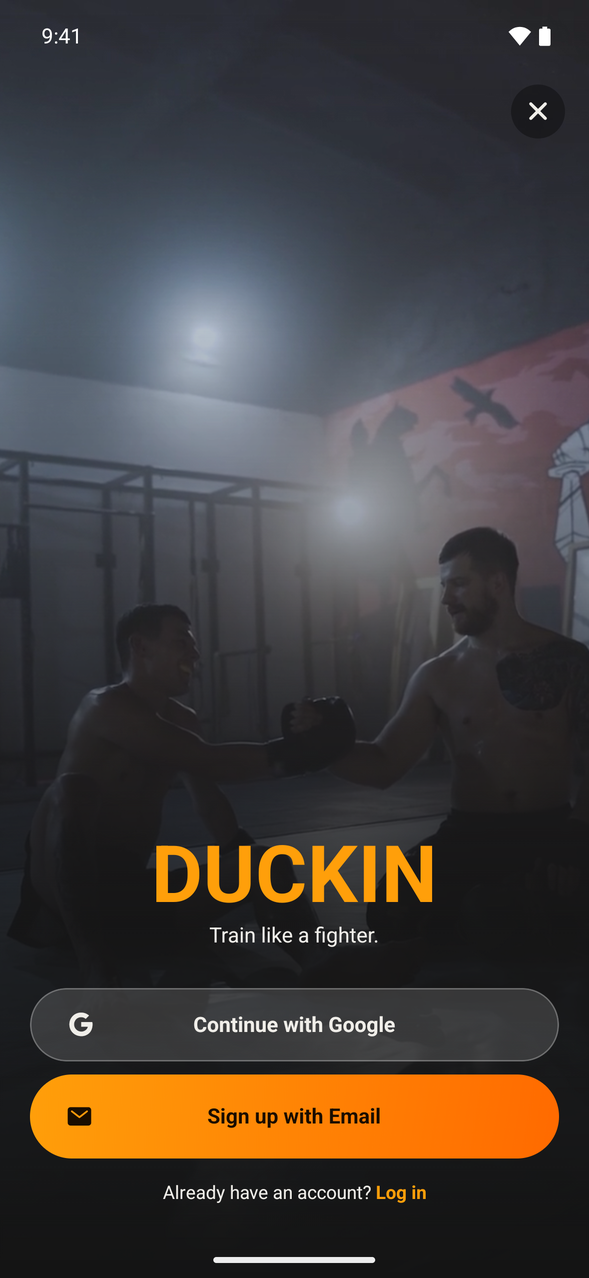
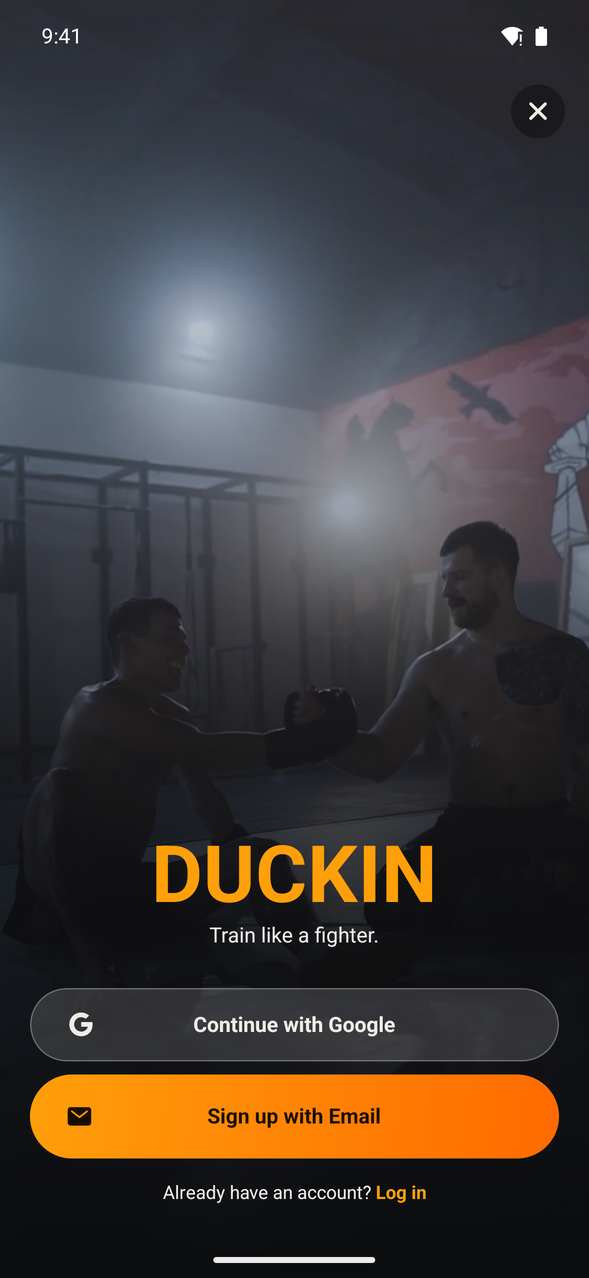
Refresh screenshots: onboarding, monthly report, log a session
New screens from the current build: photo-led onboarding, the rebuilt
monthly report, session detail, Train and Log a session. Every other
screenshot retaken on the current palette. Images only, no source code.

diff --git a/README.md b/README.md
@@ -17,9 +17,9 @@ A voice coach for the heavy bag that calls your combos, rounds and form cues in 
 - 🎯 **Built around you:** pick your sport, bag, level, pace and the fighter style you want to train like
 - 🎧 **Music ducks** under the coach instead of stopping
 - ⏱ **More training modes:** sparring rounds, conditioning intervals, guided stretching and interval timers
-- 🎙 **Voice notes:** record what happened in sparring and play it back with the silences skipped
+- 📝 **Log a session:** add training done away from the app, like a class or a sparring night
 - 📈 **Progress:** training log, streaks, XP, badges and personal records
-- 🏆 **Arena:** weekly leagues, leaderboards and a community message board
+- 🏆 **Arena:** weekly leagues and leaderboards, opening after launch
 - ⭐ **Duckin Advanced:** workout builder, combo builder, metrics, monthly report and every coach
 
 ## How it's built
@@ -29,7 +29,7 @@ A voice coach for the heavy bag that calls your combos, rounds and form cues in 
 - 🗣 **ElevenLabs** coach voices, cut into hundreds of short clips the app stitches together live
 - 💳 **RevenueCat** for subscriptions and one-off coach purchases, with store prices, a store-compliant paywall and Customer Center
 - 🔒 **Supabase** for accounts, cloud backup and the Arena, with row level security on every table
-- ✅ **750 automated tests**
+- ✅ **780+ automated tests**
 
 <p align="center">
   <img src="images/gallery/02-build.png" width="400" alt="Build it your way">
@@ -41,24 +41,27 @@ A voice coach for the heavy bag that calls your combos, rounds and form cues in 
 <table>
 <tr>
 <td align="center"><img src="images/screenshots/01-signup.png" width="200" alt="Sign up"><br><sub>Sign up</sub></td>
-<td align="center"><img src="images/screenshots/02-home.png" width="200" alt="Home"><br><sub>Home</sub></td>
-<td align="center"><img src="images/screenshots/03-bag-setup.png" width="200" alt="Bag work setup"><br><sub>Bag work setup</sub></td>
-<td align="center"><img src="images/screenshots/04-live-round.png" width="200" alt="Live round"><br><sub>Live round</sub></td>
+<td align="center"><img src="images/screenshots/02-onboarding-discipline.png" width="200" alt="Onboarding"><br><sub>Onboarding</sub></td>
+<td align="center"><img src="images/screenshots/03-onboarding-experience.png" width="200" alt="Onboarding"><br><sub>Onboarding</sub></td>
+<td align="center"><img src="images/screenshots/04-home.png" width="200" alt="Home"><br><sub>Home</sub></td>
 </tr>
 <tr>
-<td align="center"><img src="images/screenshots/05-combo-builder.png" width="200" alt="Combo builder"><br><sub>Combo builder</sub></td>
-<td align="center"><img src="images/screenshots/06-workout-builder.png" width="200" alt="Workout builder"><br><sub>Workout builder</sub></td>
-<td align="center"><img src="images/screenshots/07-advanced.png" width="200" alt="Advanced"><br><sub>Advanced</sub></td>
-<td align="center"><img src="images/screenshots/08-metrics.png" width="200" alt="Metrics"><br><sub>Metrics</sub></td>
+<td align="center"><img src="images/screenshots/05-train.png" width="200" alt="Train"><br><sub>Train</sub></td>
+<td align="center"><img src="images/screenshots/06-bag-setup.png" width="200" alt="Bag work setup"><br><sub>Bag work setup</sub></td>
+<td align="center"><img src="images/screenshots/07-live-round.png" width="200" alt="Live round"><br><sub>Live round</sub></td>
+<td align="center"><img src="images/screenshots/08-session.png" width="200" alt="Session detail"><br><sub>Session detail</sub></td>
 </tr>
 <tr>
-<td align="center"><img src="images/screenshots/09-monthly-report.png" width="200" alt="Monthly report"><br><sub>Monthly report</sub></td>
-<td align="center"><img src="images/screenshots/10-voice-notes.png" width="200" alt="Voice notes"><br><sub>Voice notes</sub></td>
-<td align="center"><img src="images/screenshots/11-arena-boards.png" width="200" alt="Arena"><br><sub>Arena</sub></td>
-<td align="center"><img src="images/screenshots/12-coaches.png" width="200" alt="Coaches"><br><sub>Coaches</sub></td>
+<td align="center"><img src="images/screenshots/09-log-session.png" width="200" alt="Log a session"><br><sub>Log a session</sub></td>
+<td align="center"><img src="images/screenshots/10-advanced.png" width="200" alt="Advanced"><br><sub>Advanced</sub></td>
+<td align="center"><img src="images/screenshots/11-workout-builder.png" width="200" alt="Workout builder"><br><sub>Workout builder</sub></td>
+<td align="center"><img src="images/screenshots/12-combo-builder.png" width="200" alt="Combo builder"><br><sub>Combo builder</sub></td>
 </tr>
 <tr>
-<td align="center"><img src="images/screenshots/13-paywall.png" width="200" alt="Paywall"><br><sub>Paywall</sub></td>
+<td align="center"><img src="images/screenshots/13-metrics.png" width="200" alt="Metrics"><br><sub>Metrics</sub></td>
+<td align="center"><img src="images/screenshots/14-monthly-report.png" width="200" alt="Monthly report"><br><sub>Monthly report</sub></td>
+<td align="center"><img src="images/screenshots/15-coaches.png" width="200" alt="Coaches"><br><sub>Coaches</sub></td>
+<td align="center"><img src="images/screenshots/16-paywall.png" width="200" alt="Paywall"><br><sub>Paywall</sub></td>
 </tr>
 </table>
 
